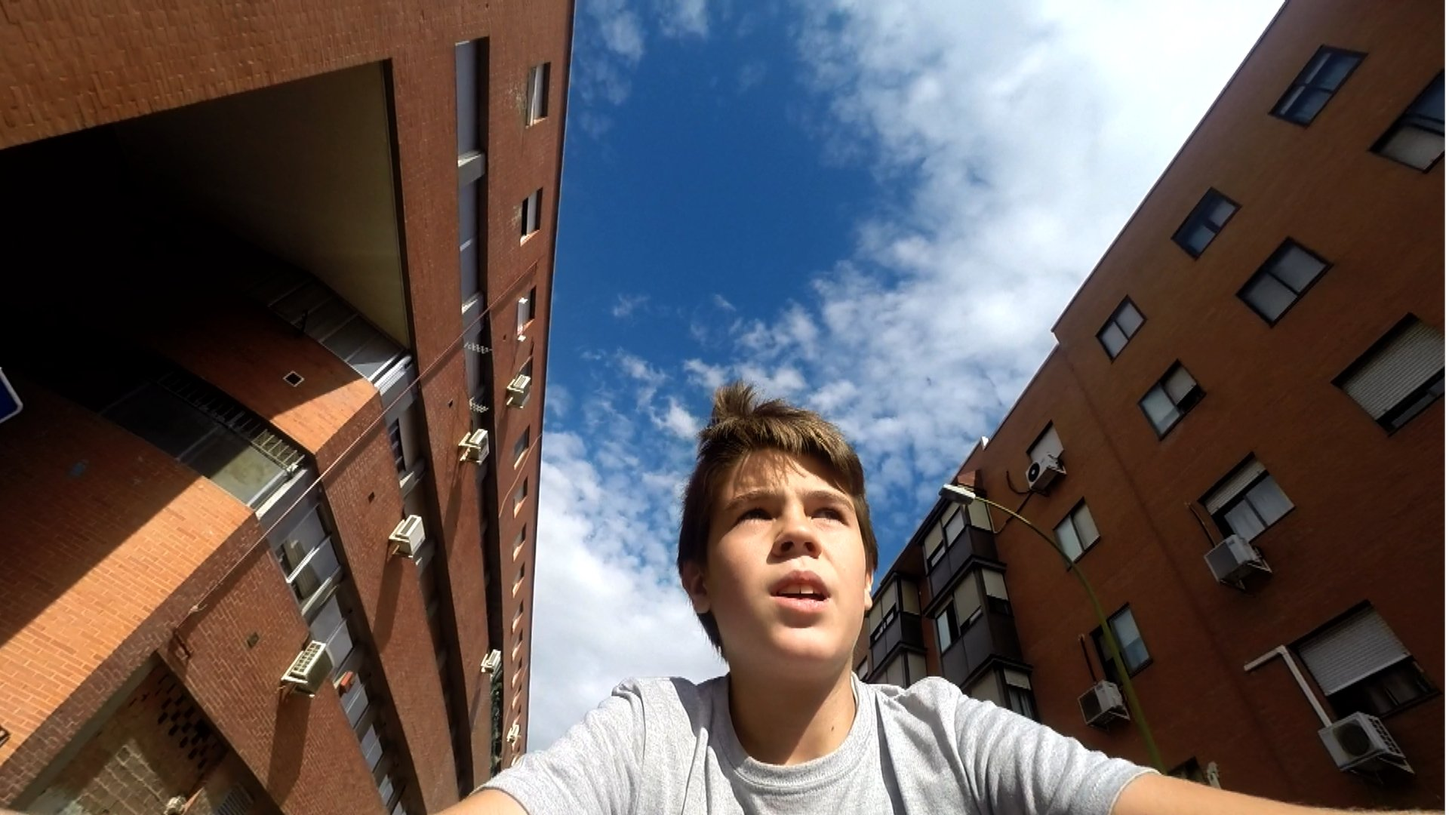
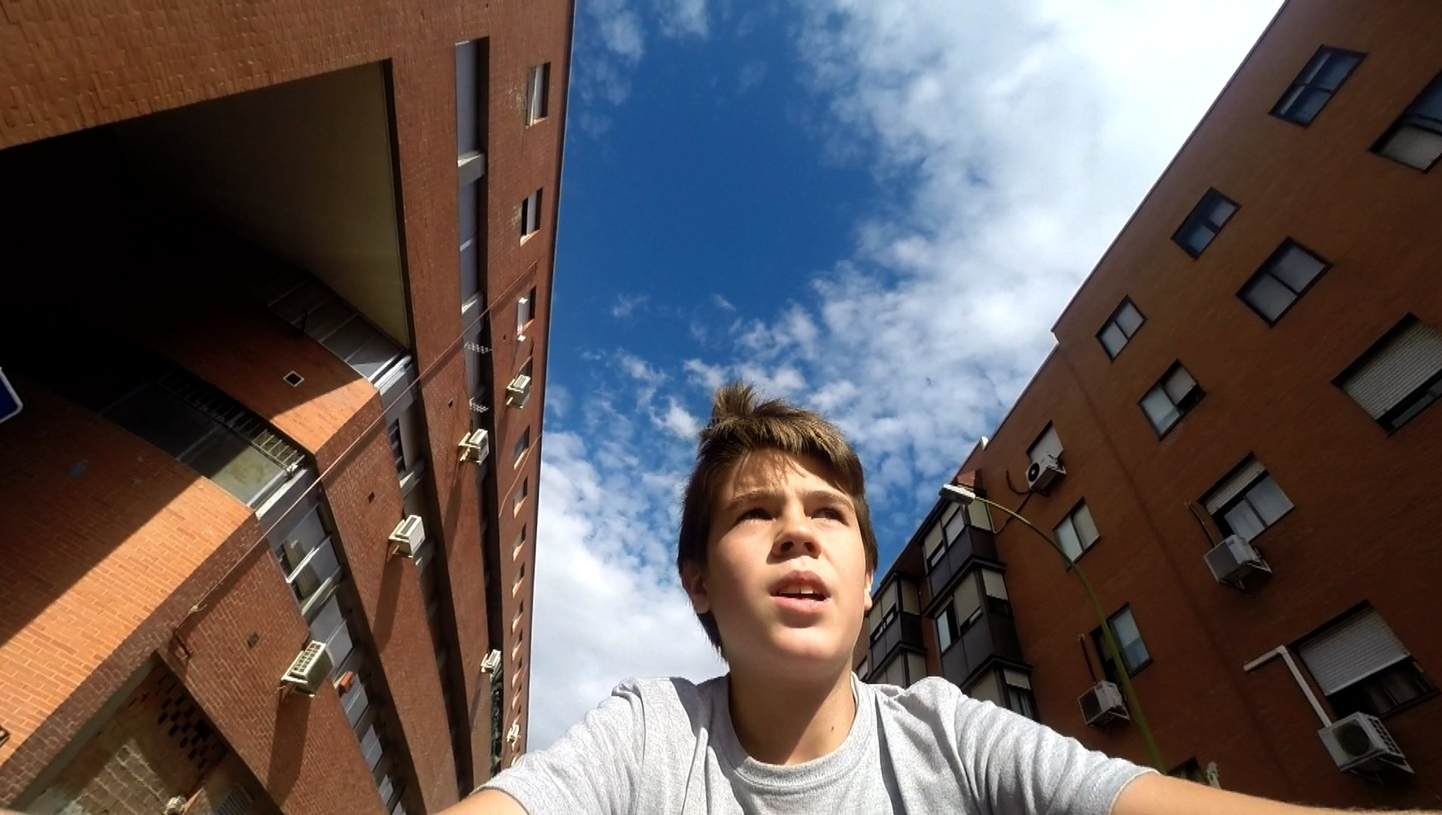
retoque en la imagen de cabecera

diff --git a/_site/2017/10/creditos.html b/_site/2017/10/creditos.html
@@ -15,16 +15,16 @@
 <meta property="og:locale" content="en_US" />
 <meta name="description" content="una película de Irene Yagüe Herrero y Alberto García Ortiz han participado: Dolores Ferrer Agudo Nerea Fonzález Ferrer Cristian González Ferrer Isabel Rodríguez Beni Ferrer Agudo Isabel Ferrer Rodríguez Águeda Carballo el Joni y el Toni Hazar Hadi Marido Hazar Hero hijo Hazar Venerando Alhambra Feli Velázquez Manuel San Pastor Cristina Escribano María Jesús Alcubilla Mercedes Revuelta Sergio Patón Jose Diazguerra (Fiti) Benjamín Martín Delgado Verónica Carro Laura Laina cámara Alberto García Ortiz sonido directo Irene Yagüe mezcla de sonido Patrick gishlain etalonaje Manuel Dávila EDICIÓN Alberto García Ortiz ayudantes de montaje Irene Yagüe Agatha Maciaszek producción la pizarra produce Irene Yagüe Agatha Maciaszek Alberto García Ortiz Zinnia Quirós Chacón diseño gráfico Julien Charlon Marcin Chylinski Juan Gabriel Gutiérrez María Vera redes Juan Gabriel Gutiérrez música Impromptu Op. 90 Nº 1 - Schubert Callejones Oscuros - el Luisito imágenes desahucio cedidas por Jaime Alekos y William criollo Web Alejandro Zappala material gráfico Raycopy gracias a todas las personas que han ayudado a realizar esta película Familiares, amigas, vecinas, barrios, colectivos y compañeros que nos animaron a editarla y dieron su punto de vista muy especialmente a Miguelón Camacho, Lola Ojalá y Giulia Pizzuti a los colectivos de vivienda de Madrid, asambleas de la PAH de los barrios, plataforma por la vivienda pública y social, FRAVM y el equipo jurídico antidesahucios" />
 <meta property="og:description" content="una película de Irene Yagüe Herrero y Alberto García Ortiz han participado: Dolores Ferrer Agudo Nerea Fonzález Ferrer Cristian González Ferrer Isabel Rodríguez Beni Ferrer Agudo Isabel Ferrer Rodríguez Águeda Carballo el Joni y el Toni Hazar Hadi Marido Hazar Hero hijo Hazar Venerando Alhambra Feli Velázquez Manuel San Pastor Cristina Escribano María Jesús Alcubilla Mercedes Revuelta Sergio Patón Jose Diazguerra (Fiti) Benjamín Martín Delgado Verónica Carro Laura Laina cámara Alberto García Ortiz sonido directo Irene Yagüe mezcla de sonido Patrick gishlain etalonaje Manuel Dávila EDICIÓN Alberto García Ortiz ayudantes de montaje Irene Yagüe Agatha Maciaszek producción la pizarra produce Irene Yagüe Agatha Maciaszek Alberto García Ortiz Zinnia Quirós Chacón diseño gráfico Julien Charlon Marcin Chylinski Juan Gabriel Gutiérrez María Vera redes Juan Gabriel Gutiérrez música Impromptu Op. 90 Nº 1 - Schubert Callejones Oscuros - el Luisito imágenes desahucio cedidas por Jaime Alekos y William criollo Web Alejandro Zappala material gráfico Raycopy gracias a todas las personas que han ayudado a realizar esta película Familiares, amigas, vecinas, barrios, colectivos y compañeros que nos animaron a editarla y dieron su punto de vista muy especialmente a Miguelón Camacho, Lola Ojalá y Giulia Pizzuti a los colectivos de vivienda de Madrid, asambleas de la PAH de los barrios, plataforma por la vivienda pública y social, FRAVM y el equipo jurídico antidesahucios" />
-<link rel="canonical" href="https://alayzappala.github.io/lagrieta/2017/10/creditos.html" />
-<meta property="og:url" content="https://alayzappala.github.io/lagrieta/2017/10/creditos.html" />
+<link rel="canonical" href="http://localhost:4000/2017/10/creditos.html" />
+<meta property="og:url" content="http://localhost:4000/2017/10/creditos.html" />
 <meta property="og:site_name" content="La Grieta" />
 <meta property="og:type" content="article" />
 <meta property="article:published_time" content="2017-10-13T00:00:00+02:00" />
 <script type="application/ld+json">
-{"name":null,"description":"una película de Irene Yagüe Herrero y Alberto García Ortiz han participado: Dolores Ferrer Agudo Nerea Fonzález Ferrer Cristian González Ferrer Isabel Rodríguez Beni Ferrer Agudo Isabel Ferrer Rodríguez Águeda Carballo el Joni y el Toni Hazar Hadi Marido Hazar Hero hijo Hazar Venerando Alhambra Feli Velázquez Manuel San Pastor Cristina Escribano María Jesús Alcubilla Mercedes Revuelta Sergio Patón Jose Diazguerra (Fiti) Benjamín Martín Delgado Verónica Carro Laura Laina cámara Alberto García Ortiz sonido directo Irene Yagüe mezcla de sonido Patrick gishlain etalonaje Manuel Dávila EDICIÓN Alberto García Ortiz ayudantes de montaje Irene Yagüe Agatha Maciaszek producción la pizarra produce Irene Yagüe Agatha Maciaszek Alberto García Ortiz Zinnia Quirós Chacón diseño gráfico Julien Charlon Marcin Chylinski Juan Gabriel Gutiérrez María Vera redes Juan Gabriel Gutiérrez música Impromptu Op. 90 Nº 1 - Schubert Callejones Oscuros - el Luisito imágenes desahucio cedidas por Jaime Alekos y William criollo Web Alejandro Zappala material gráfico Raycopy gracias a todas las personas que han ayudado a realizar esta película Familiares, amigas, vecinas, barrios, colectivos y compañeros que nos animaron a editarla y dieron su punto de vista muy especialmente a Miguelón Camacho, Lola Ojalá y Giulia Pizzuti a los colectivos de vivienda de Madrid, asambleas de la PAH de los barrios, plataforma por la vivienda pública y social, FRAVM y el equipo jurídico antidesahucios","author":{"@type":"Person","name":"Alejandro Zappala"},"@type":"BlogPosting","url":"https://alayzappala.github.io/lagrieta/2017/10/creditos.html","publisher":null,"image":null,"headline":"Créditos","dateModified":"2017-10-13T00:00:00+02:00","datePublished":"2017-10-13T00:00:00+02:00","sameAs":null,"mainEntityOfPage":{"@type":"WebPage","@id":"https://alayzappala.github.io/lagrieta/2017/10/creditos.html"},"@context":"http://schema.org"}</script>
+{"name":null,"description":"una película de Irene Yagüe Herrero y Alberto García Ortiz han participado: Dolores Ferrer Agudo Nerea Fonzález Ferrer Cristian González Ferrer Isabel Rodríguez Beni Ferrer Agudo Isabel Ferrer Rodríguez Águeda Carballo el Joni y el Toni Hazar Hadi Marido Hazar Hero hijo Hazar Venerando Alhambra Feli Velázquez Manuel San Pastor Cristina Escribano María Jesús Alcubilla Mercedes Revuelta Sergio Patón Jose Diazguerra (Fiti) Benjamín Martín Delgado Verónica Carro Laura Laina cámara Alberto García Ortiz sonido directo Irene Yagüe mezcla de sonido Patrick gishlain etalonaje Manuel Dávila EDICIÓN Alberto García Ortiz ayudantes de montaje Irene Yagüe Agatha Maciaszek producción la pizarra produce Irene Yagüe Agatha Maciaszek Alberto García Ortiz Zinnia Quirós Chacón diseño gráfico Julien Charlon Marcin Chylinski Juan Gabriel Gutiérrez María Vera redes Juan Gabriel Gutiérrez música Impromptu Op. 90 Nº 1 - Schubert Callejones Oscuros - el Luisito imágenes desahucio cedidas por Jaime Alekos y William criollo Web Alejandro Zappala material gráfico Raycopy gracias a todas las personas que han ayudado a realizar esta película Familiares, amigas, vecinas, barrios, colectivos y compañeros que nos animaron a editarla y dieron su punto de vista muy especialmente a Miguelón Camacho, Lola Ojalá y Giulia Pizzuti a los colectivos de vivienda de Madrid, asambleas de la PAH de los barrios, plataforma por la vivienda pública y social, FRAVM y el equipo jurídico antidesahucios","author":{"@type":"Person","name":"Alejandro Zappala"},"@type":"BlogPosting","url":"http://localhost:4000/2017/10/creditos.html","publisher":null,"image":null,"headline":"Créditos","dateModified":"2017-10-13T00:00:00+02:00","datePublished":"2017-10-13T00:00:00+02:00","sameAs":null,"mainEntityOfPage":{"@type":"WebPage","@id":"http://localhost:4000/2017/10/creditos.html"},"@context":"http://schema.org"}</script>
 <!-- End Jekyll SEO tag -->
 
-    <link type="application/atom+xml" rel="alternate" href="https://alayzappala.github.io/lagrieta/feed.xml" title="La Grieta" />
+    <link type="application/atom+xml" rel="alternate" href="http://localhost:4000/feed.xml" title="La Grieta" />
   </head>
   <body>
     <header>

diff --git a/_site/2017/10/la_grieta-seleccionada-para-seminci-17.html b/_site/2017/10/la_grieta-seleccionada-para-seminci-17.html
@@ -15,16 +15,16 @@
 <meta property="og:locale" content="en_US" />
 <meta name="description" content="Estamos felices de poder estrenar el lunes 23 de octubre, en el marco de la Semana Internacional de Cine de Valladolid. Aquí el programa completo de la SEMINCI 17" />
 <meta property="og:description" content="Estamos felices de poder estrenar el lunes 23 de octubre, en el marco de la Semana Internacional de Cine de Valladolid. Aquí el programa completo de la SEMINCI 17" />
-<link rel="canonical" href="https://alayzappala.github.io/lagrieta/2017/10/la_grieta-seleccionada-para-seminci-17.html" />
-<meta property="og:url" content="https://alayzappala.github.io/lagrieta/2017/10/la_grieta-seleccionada-para-seminci-17.html" />
+<link rel="canonical" href="http://localhost:4000/2017/10/la_grieta-seleccionada-para-seminci-17.html" />
+<meta property="og:url" content="http://localhost:4000/2017/10/la_grieta-seleccionada-para-seminci-17.html" />
 <meta property="og:site_name" content="La Grieta" />
 <meta property="og:type" content="article" />
 <meta property="article:published_time" content="2017-10-13T00:00:00+02:00" />
 <script type="application/ld+json">
-{"name":null,"description":"Estamos felices de poder estrenar el lunes 23 de octubre, en el marco de la Semana Internacional de Cine de Valladolid. Aquí el programa completo de la SEMINCI 17","author":{"@type":"Person","name":"Alejandro Zappala"},"@type":"BlogPosting","url":"https://alayzappala.github.io/lagrieta/2017/10/la_grieta-seleccionada-para-seminci-17.html","publisher":null,"image":null,"headline":"La Grieta seleccionada para la SEMINCI 17","dateModified":"2017-10-13T00:00:00+02:00","datePublished":"2017-10-13T00:00:00+02:00","sameAs":null,"mainEntityOfPage":{"@type":"WebPage","@id":"https://alayzappala.github.io/lagrieta/2017/10/la_grieta-seleccionada-para-seminci-17.html"},"@context":"http://schema.org"}</script>
+{"name":null,"description":"Estamos felices de poder estrenar el lunes 23 de octubre, en el marco de la Semana Internacional de Cine de Valladolid. Aquí el programa completo de la SEMINCI 17","author":{"@type":"Person","name":"Alejandro Zappala"},"@type":"BlogPosting","url":"http://localhost:4000/2017/10/la_grieta-seleccionada-para-seminci-17.html","publisher":null,"image":null,"headline":"La Grieta seleccionada para la SEMINCI 17","dateModified":"2017-10-13T00:00:00+02:00","datePublished":"2017-10-13T00:00:00+02:00","sameAs":null,"mainEntityOfPage":{"@type":"WebPage","@id":"http://localhost:4000/2017/10/la_grieta-seleccionada-para-seminci-17.html"},"@context":"http://schema.org"}</script>
 <!-- End Jekyll SEO tag -->
 
-    <link type="application/atom+xml" rel="alternate" href="https://alayzappala.github.io/lagrieta/feed.xml" title="La Grieta" />
+    <link type="application/atom+xml" rel="alternate" href="http://localhost:4000/feed.xml" title="La Grieta" />
   </head>
   <body>
     <header>

diff --git a/_site/2017/10/medios.html b/_site/2017/10/medios.html
@@ -15,16 +15,16 @@
 <meta property="og:locale" content="en_US" />
 <meta name="description" content="Pisuerga noticias http://pisuerganoticias.com/noticia/2017-10-09-los-13-titulos-seccion-doc-espana-abordan-temas-toda-indole-seminci-1970" />
 <meta property="og:description" content="Pisuerga noticias http://pisuerganoticias.com/noticia/2017-10-09-los-13-titulos-seccion-doc-espana-abordan-temas-toda-indole-seminci-1970" />
-<link rel="canonical" href="https://alayzappala.github.io/lagrieta/2017/10/medios.html" />
-<meta property="og:url" content="https://alayzappala.github.io/lagrieta/2017/10/medios.html" />
+<link rel="canonical" href="http://localhost:4000/2017/10/medios.html" />
+<meta property="og:url" content="http://localhost:4000/2017/10/medios.html" />
 <meta property="og:site_name" content="La Grieta" />
 <meta property="og:type" content="article" />
 <meta property="article:published_time" content="2017-10-13T00:00:00+02:00" />
 <script type="application/ld+json">
-{"name":null,"description":"Pisuerga noticias http://pisuerganoticias.com/noticia/2017-10-09-los-13-titulos-seccion-doc-espana-abordan-temas-toda-indole-seminci-1970","author":{"@type":"Person","name":"Alejandro Zappala"},"@type":"BlogPosting","url":"https://alayzappala.github.io/lagrieta/2017/10/medios.html","publisher":null,"image":null,"headline":"La Grieta en los medios","dateModified":"2017-10-13T00:00:00+02:00","datePublished":"2017-10-13T00:00:00+02:00","sameAs":null,"mainEntityOfPage":{"@type":"WebPage","@id":"https://alayzappala.github.io/lagrieta/2017/10/medios.html"},"@context":"http://schema.org"}</script>
+{"name":null,"description":"Pisuerga noticias http://pisuerganoticias.com/noticia/2017-10-09-los-13-titulos-seccion-doc-espana-abordan-temas-toda-indole-seminci-1970","author":{"@type":"Person","name":"Alejandro Zappala"},"@type":"BlogPosting","url":"http://localhost:4000/2017/10/medios.html","publisher":null,"image":null,"headline":"La Grieta en los medios","dateModified":"2017-10-13T00:00:00+02:00","datePublished":"2017-10-13T00:00:00+02:00","sameAs":null,"mainEntityOfPage":{"@type":"WebPage","@id":"http://localhost:4000/2017/10/medios.html"},"@context":"http://schema.org"}</script>
 <!-- End Jekyll SEO tag -->
 
-    <link type="application/atom+xml" rel="alternate" href="https://alayzappala.github.io/lagrieta/feed.xml" title="La Grieta" />
+    <link type="application/atom+xml" rel="alternate" href="http://localhost:4000/feed.xml" title="La Grieta" />
   </head>
   <body>
     <header>

diff --git a/_site/page2/index.html b/_site/page2/index.html
@@ -15,15 +15,15 @@
 <meta property="og:locale" content="en_US" />
 <meta name="description" content="Una película de Irene Yagüe Herrero y Alberto García Ortiz." />
 <meta property="og:description" content="Una película de Irene Yagüe Herrero y Alberto García Ortiz." />
-<link rel="canonical" href="https://alayzappala.github.io/lagrieta/page2/" />
-<meta property="og:url" content="https://alayzappala.github.io/lagrieta/page2/" />
+<link rel="canonical" href="http://localhost:4000/page2/" />
+<meta property="og:url" content="http://localhost:4000/page2/" />
 <meta property="og:site_name" content="La Grieta" />
-<link rel="prev" href="https://alayzappala.github.io/lagrieta/">
+<link rel="prev" href="http://localhost:4000/">
 <script type="application/ld+json">
-{"name":null,"description":"Una película de Irene Yagüe Herrero y Alberto García Ortiz.","author":{"@type":"Person","name":"Alejandro Zappala"},"@type":"WebPage","url":"https://alayzappala.github.io/lagrieta/page2/","publisher":null,"image":null,"headline":"La Grieta","dateModified":null,"datePublished":null,"sameAs":null,"mainEntityOfPage":null,"@context":"http://schema.org"}</script>
+{"name":null,"description":"Una película de Irene Yagüe Herrero y Alberto García Ortiz.","author":{"@type":"Person","name":"Alejandro Zappala"},"@type":"WebPage","url":"http://localhost:4000/page2/","publisher":null,"image":null,"headline":"La Grieta","dateModified":null,"datePublished":null,"sameAs":null,"mainEntityOfPage":null,"@context":"http://schema.org"}</script>
 <!-- End Jekyll SEO tag -->
 
-    <link type="application/atom+xml" rel="alternate" href="https://alayzappala.github.io/lagrieta/feed.xml" title="La Grieta" />
+    <link type="application/atom+xml" rel="alternate" href="http://localhost:4000/feed.xml" title="La Grieta" />
   </head>
   <body>
     <header>

diff --git a/_site/index.html b/_site/index.html
@@ -15,15 +15,15 @@
 <meta property="og:locale" content="en_US" />
 <meta name="description" content="Una película de Irene Yagüe Herrero y Alberto García Ortiz." />
 <meta property="og:description" content="Una película de Irene Yagüe Herrero y Alberto García Ortiz." />
-<link rel="canonical" href="https://alayzappala.github.io/lagrieta/" />
-<meta property="og:url" content="https://alayzappala.github.io/lagrieta/" />
+<link rel="canonical" href="http://localhost:4000/" />
+<meta property="og:url" content="http://localhost:4000/" />
 <meta property="og:site_name" content="La Grieta" />
-<link rel="next" href="https://alayzappala.github.io/lagrieta/page2">
+<link rel="next" href="http://localhost:4000/page2">
 <script type="application/ld+json">
-{"name":"La Grieta","description":"Una película de Irene Yagüe Herrero y Alberto García Ortiz.","author":{"@type":"Person","name":"Alejandro Zappala"},"@type":"WebSite","url":"https://alayzappala.github.io/lagrieta/","publisher":null,"image":null,"headline":"La Grieta","dateModified":null,"datePublished":null,"sameAs":null,"mainEntityOfPage":null,"@context":"http://schema.org"}</script>
+{"name":"La Grieta","description":"Una película de Irene Yagüe Herrero y Alberto García Ortiz.","author":{"@type":"Person","name":"Alejandro Zappala"},"@type":"WebSite","url":"http://localhost:4000/","publisher":null,"image":null,"headline":"La Grieta","dateModified":null,"datePublished":null,"sameAs":null,"mainEntityOfPage":null,"@context":"http://schema.org"}</script>
 <!-- End Jekyll SEO tag -->
 
-    <link type="application/atom+xml" rel="alternate" href="https://alayzappala.github.io/lagrieta/feed.xml" title="La Grieta" />
+    <link type="application/atom+xml" rel="alternate" href="http://localhost:4000/feed.xml" title="La Grieta" />
   </head>
   <body>
     <header>

diff --git a/_site/portfolio.html b/_site/portfolio.html
@@ -15,14 +15,14 @@
 <meta property="og:locale" content="en_US" />
 <meta name="description" content="Una película de Irene Yagüe Herrero y Alberto García Ortiz." />
 <meta property="og:description" content="Una película de Irene Yagüe Herrero y Alberto García Ortiz." />
-<link rel="canonical" href="https://alayzappala.github.io/lagrieta/portfolio" />
-<meta property="og:url" content="https://alayzappala.github.io/lagrieta/portfolio" />
+<link rel="canonical" href="http://localhost:4000/portfolio" />
+<meta property="og:url" content="http://localhost:4000/portfolio" />
 <meta property="og:site_name" content="La Grieta" />
 <script type="application/ld+json">
-{"name":null,"description":"Una película de Irene Yagüe Herrero y Alberto García Ortiz.","author":{"@type":"Person","name":"Alejandro Zappala"},"@type":"WebPage","url":"https://alayzappala.github.io/lagrieta/portfolio","publisher":null,"image":null,"headline":"Projects","dateModified":null,"datePublished":null,"sameAs":null,"mainEntityOfPage":null,"@context":"http://schema.org"}</script>
+{"name":null,"description":"Una película de Irene Yagüe Herrero y Alberto García Ortiz.","author":{"@type":"Person","name":"Alejandro Zappala"},"@type":"WebPage","url":"http://localhost:4000/portfolio","publisher":null,"image":null,"headline":"Projects","dateModified":null,"datePublished":null,"sameAs":null,"mainEntityOfPage":null,"@context":"http://schema.org"}</script>
 <!-- End Jekyll SEO tag -->
 
-    <link type="application/atom+xml" rel="alternate" href="https://alayzappala.github.io/lagrieta/feed.xml" title="La Grieta" />
+    <link type="application/atom+xml" rel="alternate" href="http://localhost:4000/feed.xml" title="La Grieta" />
   </head>
   <body>
     <header>

diff --git a/_site/creditos.html b/_site/creditos.html
@@ -15,14 +15,14 @@
 <meta property="og:locale" content="en_US" />
 <meta name="description" content="Una película de Irene Yagüe Herrero y Alberto García Ortiz." />
 <meta property="og:description" content="Una película de Irene Yagüe Herrero y Alberto García Ortiz." />
-<link rel="canonical" href="https://alayzappala.github.io/lagrieta/creditos" />
-<meta property="og:url" content="https://alayzappala.github.io/lagrieta/creditos" />
+<link rel="canonical" href="http://localhost:4000/creditos" />
+<meta property="og:url" content="http://localhost:4000/creditos" />
 <meta property="og:site_name" content="La Grieta" />
 <script type="application/ld+json">
-{"name":null,"description":"Una película de Irene Yagüe Herrero y Alberto García Ortiz.","author":{"@type":"Person","name":"Alejandro Zappala"},"@type":"WebPage","url":"https://alayzappala.github.io/lagrieta/creditos","publisher":null,"image":null,"headline":"Créditos","dateModified":null,"datePublished":null,"sameAs":null,"mainEntityOfPage":null,"@context":"http://schema.org"}</script>
+{"name":null,"description":"Una película de Irene Yagüe Herrero y Alberto García Ortiz.","author":{"@type":"Person","name":"Alejandro Zappala"},"@type":"WebPage","url":"http://localhost:4000/creditos","publisher":null,"image":null,"headline":"Créditos","dateModified":null,"datePublished":null,"sameAs":null,"mainEntityOfPage":null,"@context":"http://schema.org"}</script>
 <!-- End Jekyll SEO tag -->
 
-    <link type="application/atom+xml" rel="alternate" href="https://alayzappala.github.io/lagrieta/feed.xml" title="La Grieta" />
+    <link type="application/atom+xml" rel="alternate" href="http://localhost:4000/feed.xml" title="La Grieta" />
   </head>
   <body>
     <header>

diff --git a/_site/noticias.html b/_site/noticias.html
@@ -15,14 +15,14 @@
 <meta property="og:locale" content="en_US" />
 <meta name="description" content="Una película de Irene Yagüe Herrero y Alberto García Ortiz." />
 <meta property="og:description" content="Una película de Irene Yagüe Herrero y Alberto García Ortiz." />
-<link rel="canonical" href="https://alayzappala.github.io/lagrieta/noticias" />
-<meta property="og:url" content="https://alayzappala.github.io/lagrieta/noticias" />
+<link rel="canonical" href="http://localhost:4000/noticias" />
+<meta property="og:url" content="http://localhost:4000/noticias" />
 <meta property="og:site_name" content="La Grieta" />
 <script type="application/ld+json">
-{"name":null,"description":"Una película de Irene Yagüe Herrero y Alberto García Ortiz.","author":{"@type":"Person","name":"Alejandro Zappala"},"@type":"WebPage","url":"https://alayzappala.github.io/lagrieta/noticias","publisher":null,"image":null,"headline":"Noticias","dateModified":null,"datePublished":null,"sameAs":null,"mainEntityOfPage":null,"@context":"http://schema.org"}</script>
+{"name":null,"description":"Una película de Irene Yagüe Herrero y Alberto García Ortiz.","author":{"@type":"Person","name":"Alejandro Zappala"},"@type":"WebPage","url":"http://localhost:4000/noticias","publisher":null,"image":null,"headline":"Noticias","dateModified":null,"datePublished":null,"sameAs":null,"mainEntityOfPage":null,"@context":"http://schema.org"}</script>
 <!-- End Jekyll SEO tag -->
 
-    <link type="application/atom+xml" rel="alternate" href="https://alayzappala.github.io/lagrieta/feed.xml" title="La Grieta" />
+    <link type="application/atom+xml" rel="alternate" href="http://localhost:4000/feed.xml" title="La Grieta" />
   </head>
   <body>
     <header>

diff --git a/_site/search.html b/_site/search.html
@@ -15,14 +15,14 @@
 <meta property="og:locale" content="en_US" />
 <meta name="description" content="Una película de Irene Yagüe Herrero y Alberto García Ortiz." />
 <meta property="og:description" content="Una película de Irene Yagüe Herrero y Alberto García Ortiz." />
-<link rel="canonical" href="https://alayzappala.github.io/lagrieta/search" />
-<meta property="og:url" content="https://alayzappala.github.io/lagrieta/search" />
+<link rel="canonical" href="http://localhost:4000/search" />
+<meta property="og:url" content="http://localhost:4000/search" />
 <meta property="og:site_name" content="La Grieta" />
 <script type="application/ld+json">
-{"name":null,"description":"Una película de Irene Yagüe Herrero y Alberto García Ortiz.","author":{"@type":"Person","name":"Alejandro Zappala"},"@type":"WebPage","url":"https://alayzappala.github.io/lagrieta/search","publisher":null,"image":null,"headline":"La Grieta","dateModified":null,"datePublished":null,"sameAs":null,"mainEntityOfPage":null,"@context":"http://schema.org"}</script>
+{"name":null,"description":"Una película de Irene Yagüe Herrero y Alberto García Ortiz.","author":{"@type":"Person","name":"Alejandro Zappala"},"@type":"WebPage","url":"http://localhost:4000/search","publisher":null,"image":null,"headline":"La Grieta","dateModified":null,"datePublished":null,"sameAs":null,"mainEntityOfPage":null,"@context":"http://schema.org"}</script>
 <!-- End Jekyll SEO tag -->
 
-    <link type="application/atom+xml" rel="alternate" href="https://alayzappala.github.io/lagrieta/feed.xml" title="La Grieta" />
+    <link type="application/atom+xml" rel="alternate" href="http://localhost:4000/feed.xml" title="La Grieta" />
   </head>
   <body>
     <header>

diff --git a/_site/about.html b/_site/about.html
@@ -15,14 +15,14 @@
 <meta property="og:locale" content="en_US" />
 <meta name="description" content="Una película de Irene Yagüe Herrero y Alberto García Ortiz." />
 <meta property="og:description" content="Una película de Irene Yagüe Herrero y Alberto García Ortiz." />
-<link rel="canonical" href="https://alayzappala.github.io/lagrieta/about" />
-<meta property="og:url" content="https://alayzappala.github.io/lagrieta/about" />
+<link rel="canonical" href="http://localhost:4000/about" />
+<meta property="og:url" content="http://localhost:4000/about" />
 <meta property="og:site_name" content="La Grieta" />
 <script type="application/ld+json">
-{"name":null,"description":"Una película de Irene Yagüe Herrero y Alberto García Ortiz.","author":{"@type":"Person","name":"Alejandro Zappala"},"@type":"WebPage","url":"https://alayzappala.github.io/lagrieta/about","publisher":null,"image":null,"headline":"La Grieta","dateModified":null,"datePublished":null,"sameAs":null,"mainEntityOfPage":null,"@context":"http://schema.org"}</script>
+{"name":null,"description":"Una película de Irene Yagüe Herrero y Alberto García Ortiz.","author":{"@type":"Person","name":"Alejandro Zappala"},"@type":"WebPage","url":"http://localhost:4000/about","publisher":null,"image":null,"headline":"La Grieta","dateModified":null,"datePublished":null,"sameAs":null,"mainEntityOfPage":null,"@context":"http://schema.org"}</script>
 <!-- End Jekyll SEO tag -->
 
-    <link type="application/atom+xml" rel="alternate" href="https://alayzappala.github.io/lagrieta/feed.xml" title="La Grieta" />
+    <link type="application/atom+xml" rel="alternate" href="http://localhost:4000/feed.xml" title="La Grieta" />
   </head>
   <body>
     <header>

diff --git a/_site/medios.html b/_site/medios.html
@@ -15,14 +15,14 @@
 <meta property="og:locale" content="en_US" />
 <meta name="description" content="Una película de Irene Yagüe Herrero y Alberto García Ortiz." />
 <meta property="og:description" content="Una película de Irene Yagüe Herrero y Alberto García Ortiz." />
-<link rel="canonical" href="https://alayzappala.github.io/lagrieta/medios" />
-<meta property="og:url" content="https://alayzappala.github.io/lagrieta/medios" />
+<link rel="canonical" href="http://localhost:4000/medios" />
+<meta property="og:url" content="http://localhost:4000/medios" />
 <meta property="og:site_name" content="La Grieta" />
 <script type="application/ld+json">
-{"name":null,"description":"Una película de Irene Yagüe Herrero y Alberto García Ortiz.","author":{"@type":"Person","name":"Alejandro Zappala"},"@type":"WebPage","url":"https://alayzappala.github.io/lagrieta/medios","publisher":null,"image":null,"headline":"Medios","dateModified":null,"datePublished":null,"sameAs":null,"mainEntityOfPage":null,"@context":"http://schema.org"}</script>
+{"name":null,"description":"Una película de Irene Yagüe Herrero y Alberto García Ortiz.","author":{"@type":"Person","name":"Alejandro Zappala"},"@type":"WebPage","url":"http://localhost:4000/medios","publisher":null,"image":null,"headline":"Medios","dateModified":null,"datePublished":null,"sameAs":null,"mainEntityOfPage":null,"@context":"http://schema.org"}</script>
 <!-- End Jekyll SEO tag -->
 
-    <link type="application/atom+xml" rel="alternate" href="https://alayzappala.github.io/lagrieta/feed.xml" title="La Grieta" />
+    <link type="application/atom+xml" rel="alternate" href="http://localhost:4000/feed.xml" title="La Grieta" />
   </head>
   <body>
     <header>

diff --git a/_site/noise.html b/_site/noise.html
@@ -15,14 +15,14 @@
 <meta property="og:locale" content="en_US" />
 <meta name="description" content="Una película de Irene Yagüe Herrero y Alberto García Ortiz." />
 <meta property="og:description" content="Una película de Irene Yagüe Herrero y Alberto García Ortiz." />
-<link rel="canonical" href="https://alayzappala.github.io/lagrieta/noise" />
-<meta property="og:url" content="https://alayzappala.github.io/lagrieta/noise" />
+<link rel="canonical" href="http://localhost:4000/noise" />
+<meta property="og:url" content="http://localhost:4000/noise" />
 <meta property="og:site_name" content="La Grieta" />
 <script type="application/ld+json">
-{"name":null,"description":"Una película de Irene Yagüe Herrero y Alberto García Ortiz.","author":{"@type":"Person","name":"Alejandro Zappala"},"@type":"WebPage","url":"https://alayzappala.github.io/lagrieta/noise","publisher":null,"image":null,"headline":"Noise","dateModified":null,"datePublished":null,"sameAs":null,"mainEntityOfPage":null,"@context":"http://schema.org"}</script>
+{"name":null,"description":"Una película de Irene Yagüe Herrero y Alberto García Ortiz.","author":{"@type":"Person","name":"Alejandro Zappala"},"@type":"WebPage","url":"http://localhost:4000/noise","publisher":null,"image":null,"headline":"Noise","dateModified":null,"datePublished":null,"sameAs":null,"mainEntityOfPage":null,"@context":"http://schema.org"}</script>
 <!-- End Jekyll SEO tag -->
 
-    <link type="application/atom+xml" rel="alternate" href="https://alayzappala.github.io/lagrieta/feed.xml" title="La Grieta" />
+    <link type="application/atom+xml" rel="alternate" href="http://localhost:4000/feed.xml" title="La Grieta" />
   </head>
   <body>
     <header>
